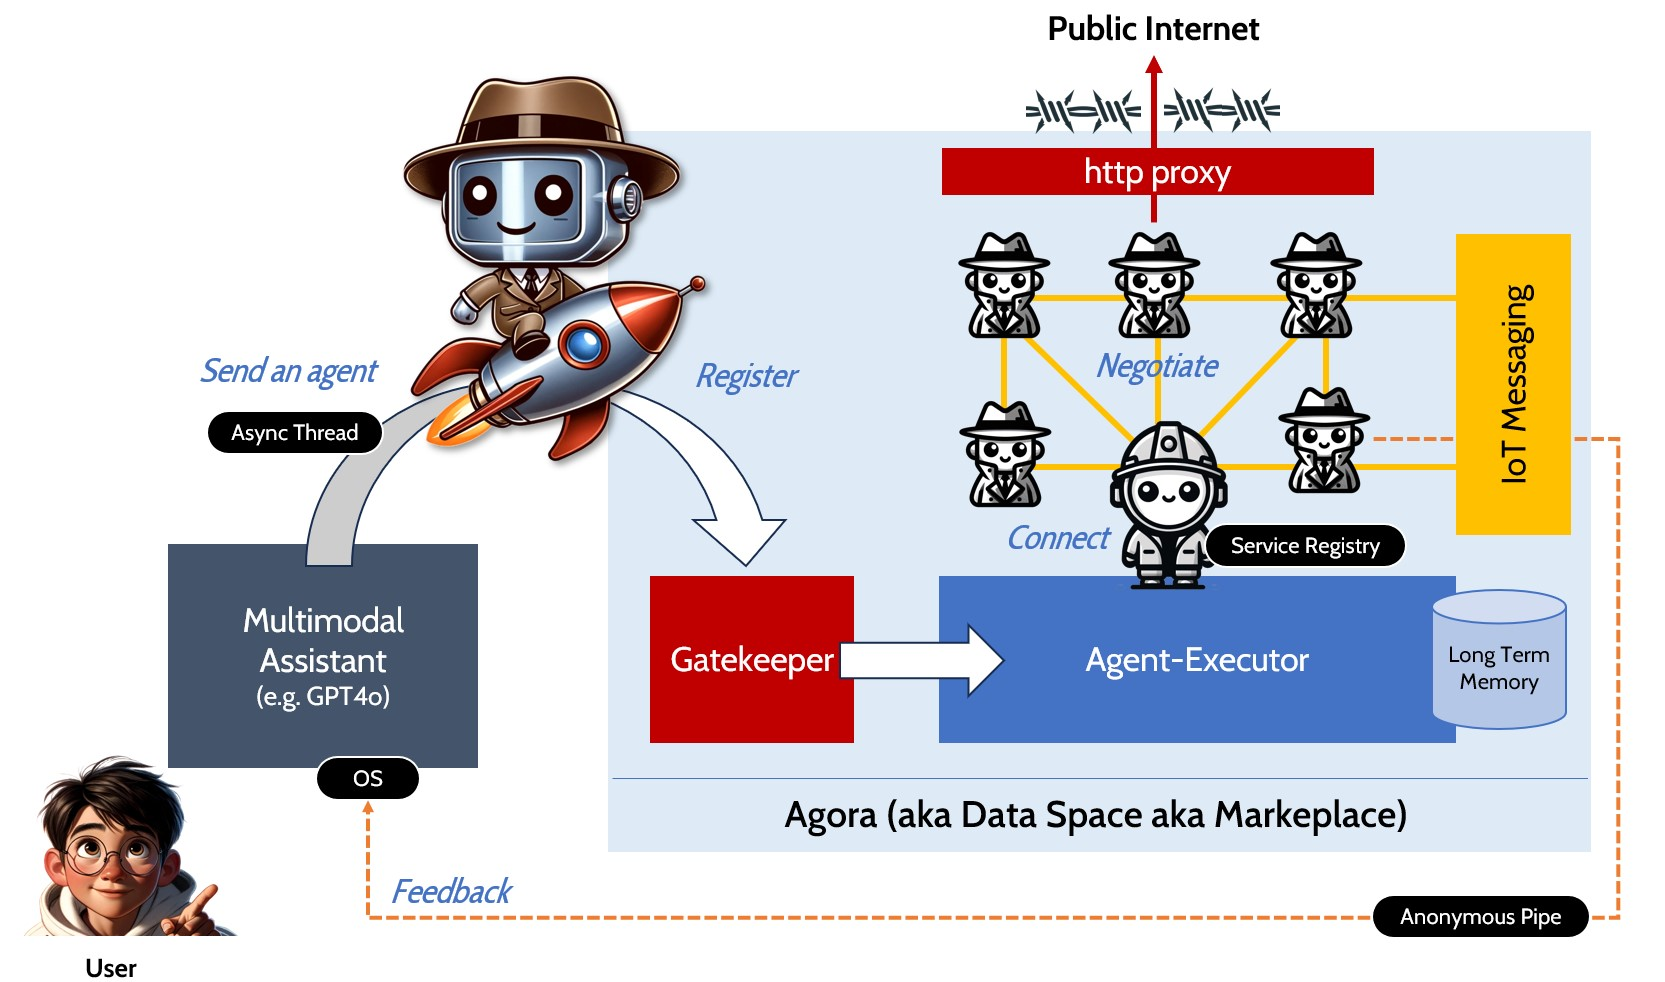
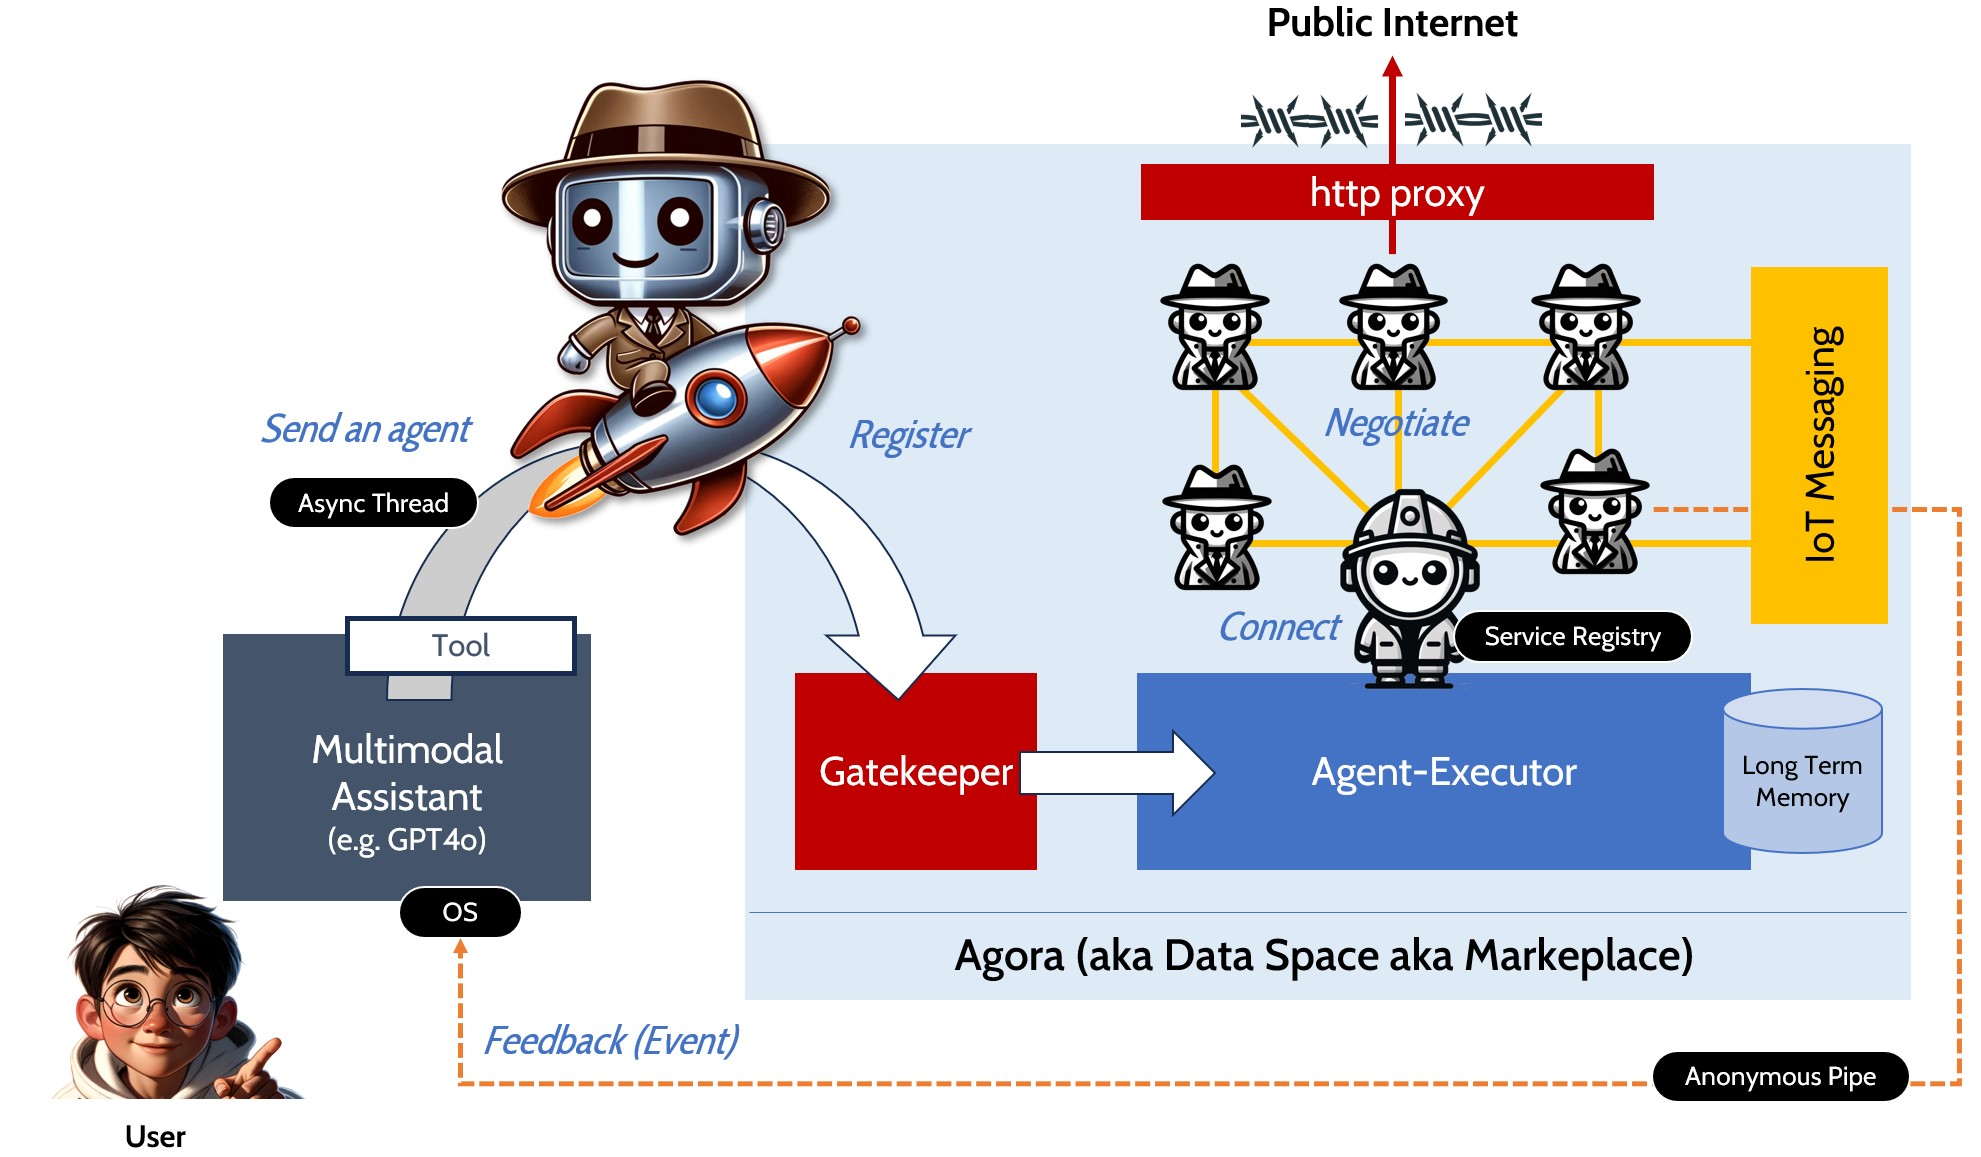
main mission docu

Changed region(s): [[0.0, 0.0, 0.9994, 1.0], [0.4685, 0.7943, 0.8745, 0.8554], [0.6559, 0.6415, 0.812, 0.7026]]

diff --git a/README.md b/README.md
@@ -12,12 +12,27 @@ Build with the following mindset:
 
 ![Diagram](./img/abstract.jpg)
 
-## Maturity (Status)
+The figure above contains some analogies from operating systems:
+* An AI assistant is the OS (Operating System)
+* The assistant can communicate via speech, vision and text directly with the user
+* When there are tasks which require asynchronous operations with other IT systems the assistant uses a tool internally to send an agent (as asynchronous thread)
+* The agent is deployed to a remote system (agora) and started with an PID (unique process id)
+* As a first start of communication the agent talks to the archos agent (service registry) and can find other agents 
+* Synchronous communication between the agents is facilitated by the agent-executor
+* Asynchronous communication between agents is achieved by using MQTT messaging (IPC)
+* Agents can use their own tools to access the internet if the agora's policies allow these connections (via the http proxy)
+* To send feedback back to the OS the agent publishes a MQTT message to a private subject (which is the PID) - the OS can subscribe to this private anonymous pipe
+
+This translates into the following technical components:
+
+![Diagram](./img/technical-diagram.jpg)
+
+## Maturity Level (Status)
 
 | Phase  | Description | Achieved? | Executed on/in | Supported LLMs |
 | ------------- | ------------- | --------| -----------|---|
 | Feasibility Study  | Create the core components stand-alone in Python and a React UI | No | Local computer manually | GPT-4, Llama 3 |
-| MVP  | Create connected core services with observability and admin UI  | Local computer scripted | No | GPT-4, Llama 3 |
+| MVP  | Create connected core services with observability and admin UI  | No | Local computer scripted | GPT-4, Llama 3 |
 | First release | Deployable product | No  |Cloud (Terraform) | TBD |
 
 ## Core components to understand
